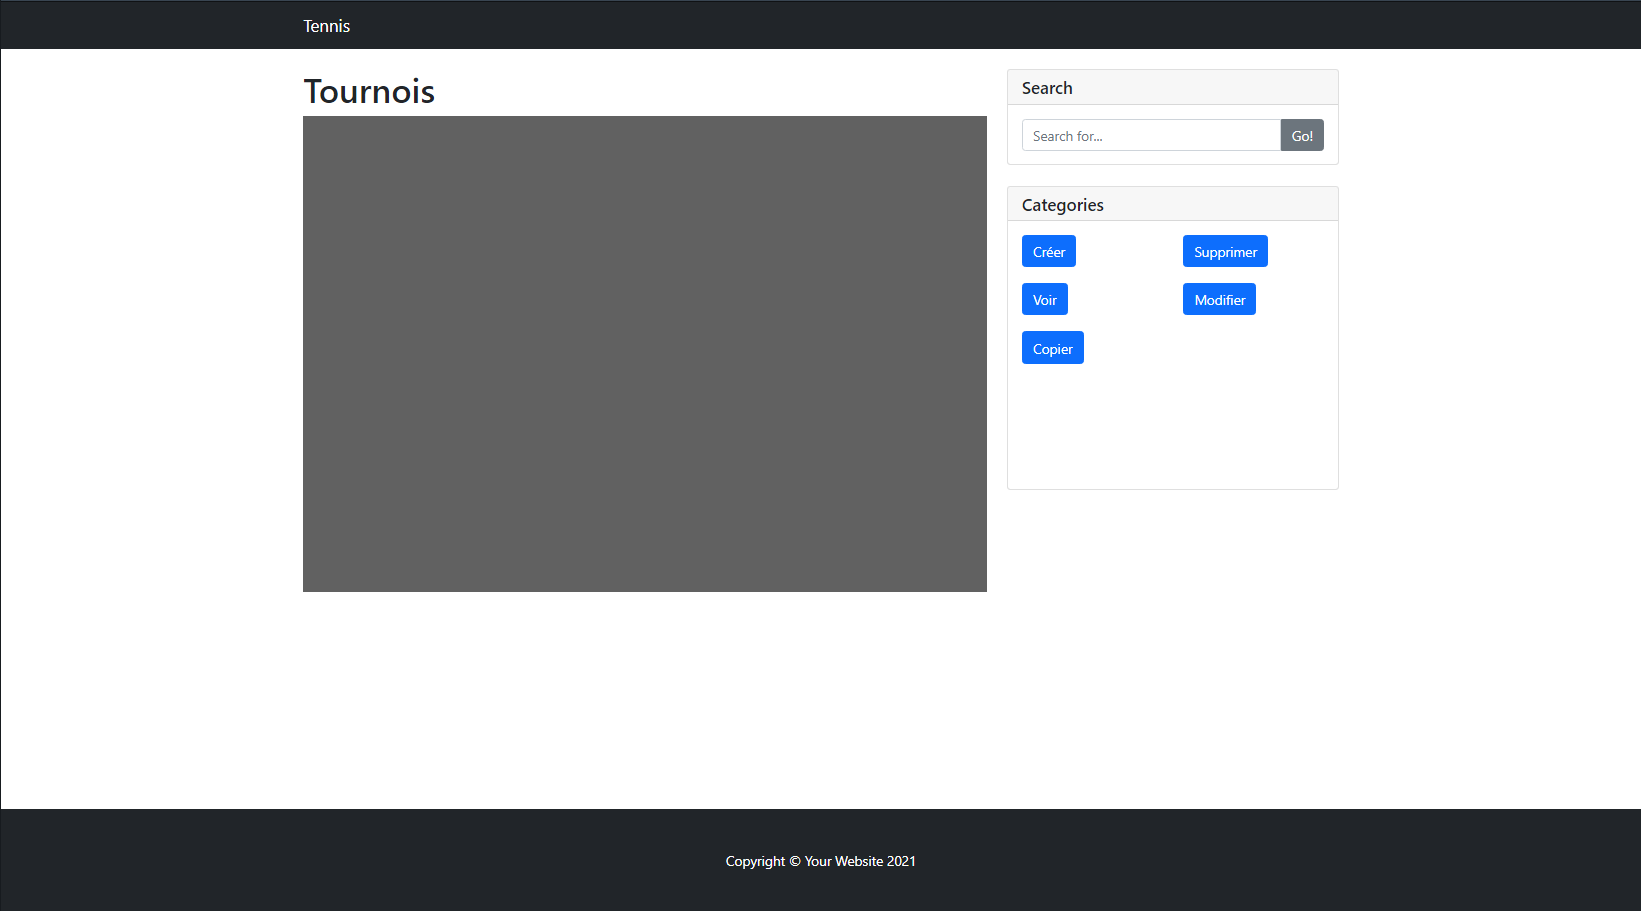
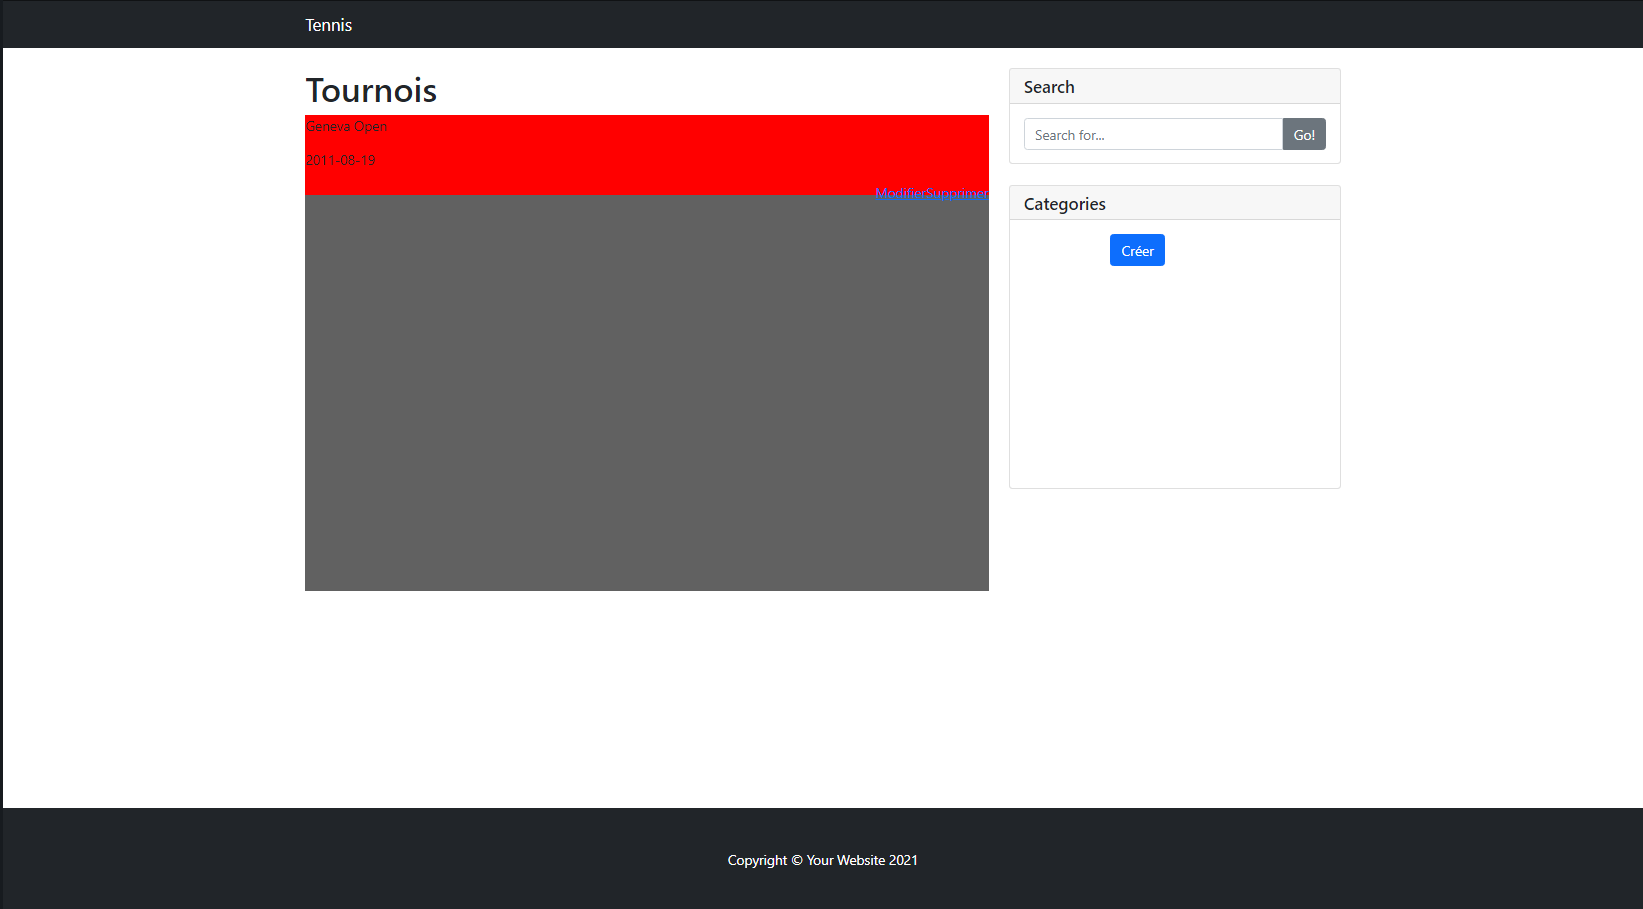
mise a jour documentation #2
Matin 5e jour
L'analyse fonctionnel ainsi que les mesures de sécurité sont pratiquement complété

diff --git a/Documentation/docTechnique/Documentation Technique.md b/Documentation/docTechnique/Documentation Technique.md
@@ -257,15 +257,41 @@
 > Je créé ensuite la page creation.php. Cette page est un formulaire ou l'utilisateur pourra créer un tournois. 
 
 ### 6.2. Fonctionnalités
-> Sur la page index.php, l'utilisateur peut créer un tournois en appuyant sur un bouton qui l'emenera sur la page création.php, il peut le supprimer, le copier et modifier le tournois avant le commencement du tournois.
-> Il peut également faire une recherche du tournois.
+> Sur la page index.php, l'utilisateur peut créer un tournois en appuyant sur un bouton créer qui l'emenera sur la page création.php. Une fois le tournois créé, le tournois s'affichera dans le compartiment en gris. A coté du tournois, se trouvera un bouton pour supprimer le tournois, un bouton modifier, un autre pour voir le tournois et un dernier pour copier le tournois.
+> La page index.php peut également faire une recherche du tournois.
 > Cette page ressemble à ça
 ![pageIndex](imageCode/pageIndex.PNG)
 
-> Sur la page creation.php, l'utilisateur a un formulaire avec plusieurs champs...
+> Sur la page creation.php, l'utilisateur a un formulaire avec plusieurs champs. Il doit remplir les champs pour créer le tournois.
+![pageCreation](imageCode/pageCreation1.PNG)
+![pageCreation](imageCode/pageCreation2.PNG)
+
+> La page modification.php est pareil que la page creation.php. La différence est que lorsque l'utilisateur appuie sur le bouton modifié d'un tournois, l'utilisateur se retrouvera sur une page pareil à la page creation.php, sauf que les données du tournois sont déjà entrées dans les champs du formulaire, alors l'utilisateur a juste à modifier le champ qui lui convient pas.
+![pageModification](imageCode/pageModification1.PNG)
+![pageModification](imageCode/pageModification2.PNG)
+
+> Lorsque l'utilisateur clique sur le bouton voir d'un tournois sur la page index.php, il sera envoyé sur la page tournois.php. C'est sur cette page qu'aura lieu les matches et ou l'utilisateur entre le score des différents matches.
+> METTRE IMAGE !!!!
+
+> Quand un utilisateur appuie sur le bouton supprimé, le tournois est supprimé.
+
+> PAGE COPIER !!!
+
 ### 6.3. Description des fonctionnalités
+> Sur la page index l'utilisateur peut rechercher un tournois. Il doit juste entré un mot dans la barre de recherche et à appuyer sur le bouton recherche et les tournois vont apparaîtres du plus au moins pertinent.
+>  Il peut également appuyer sur les bouton créer, modifier, voir, copier et supprimer. 
+> Sur la parge creation, l'utilisateur peut rentrer différentes données dans les champs du formulaire. Il peut ensuite cliquer sur le bouton créer qui va envoyer les données dans la base de données et l'utilisateur sera redirigé sur la page index.
+> Sur la page modification.php l'utilisateur peut modifier un ou plusieurs des champs du formulaire. Une fois qu'il appuie sur le bouton modifier, les données seront envoyées dans la base de données et vont remplacer les anciennes données. L'utilisateur sera redirigé sur la page index.php.
+> Lorsque l'utilisateur appuie sur le bouton supprimé, les données du tournois vont être envoyées sur une page supprimer.php afin de supprimer les données de la base de données. L'utilisateur ne change pas de page.
+> Lorsque l'utilisateur clique sur le bouton voir, il sera redirigé sur la page tournois.php. Sur cette page l'utilisateur pourra entrer les données des matches comme la date de la rencontre et les points des matches.
+> Il pourra aussi télécharger la fiche du matche.
+
+> FAIRE PAGE COPIER !!!
+
 
 ### 6.4. Mesure de sécurité
+> Pour ce qui est de la sécurité, je filtre toujours les inputs avant de traiter les données. Lorsque je passe des données en get, je les filtre directement sur la page ou les données ont été envoyé.
+
 
 ## 7. Analyse Organique
 
